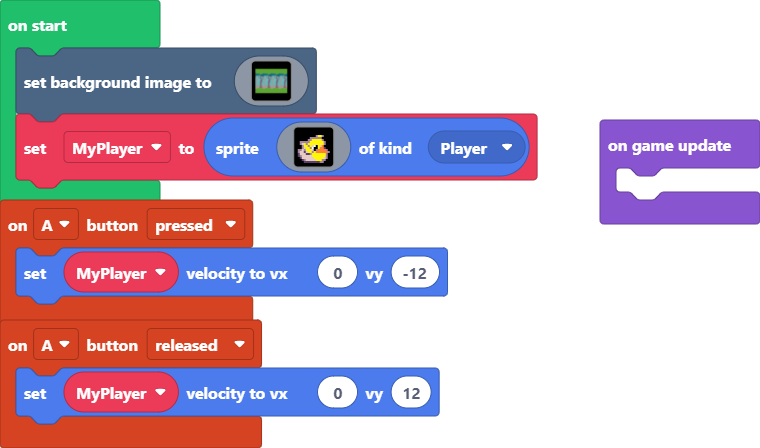
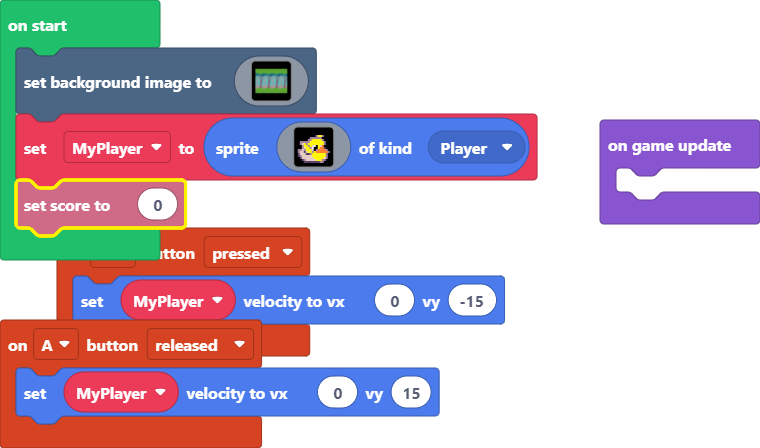
Update main.blocks, main.ts

Changed region(s): [[0.0, 0.375, 0.6658, 0.8125]]

diff --git a/main.ts b/main.ts
@@ -1,8 +1,8 @@
 controller.A.onEvent(ControllerButtonEvent.Pressed, function () {
-    MyPlayer.setVelocity(0, -12)
+    MyPlayer.setVelocity(0, -15)
 })
 controller.A.onEvent(ControllerButtonEvent.Released, function () {
-    MyPlayer.setVelocity(0, 12)
+    MyPlayer.setVelocity(0, 15)
 })
 let MyPlayer: Sprite = null
 scene.setBackgroundImage(img`
@@ -145,6 +145,7 @@ MyPlayer = sprites.create(img`
     . . c b d d d d d 5 5 5 b b . . 
     . . . c c c c c c c c b b . . . 
     `, SpriteKind.Player)
+info.setScore(0)
 game.onUpdate(function () {
 	
 })
